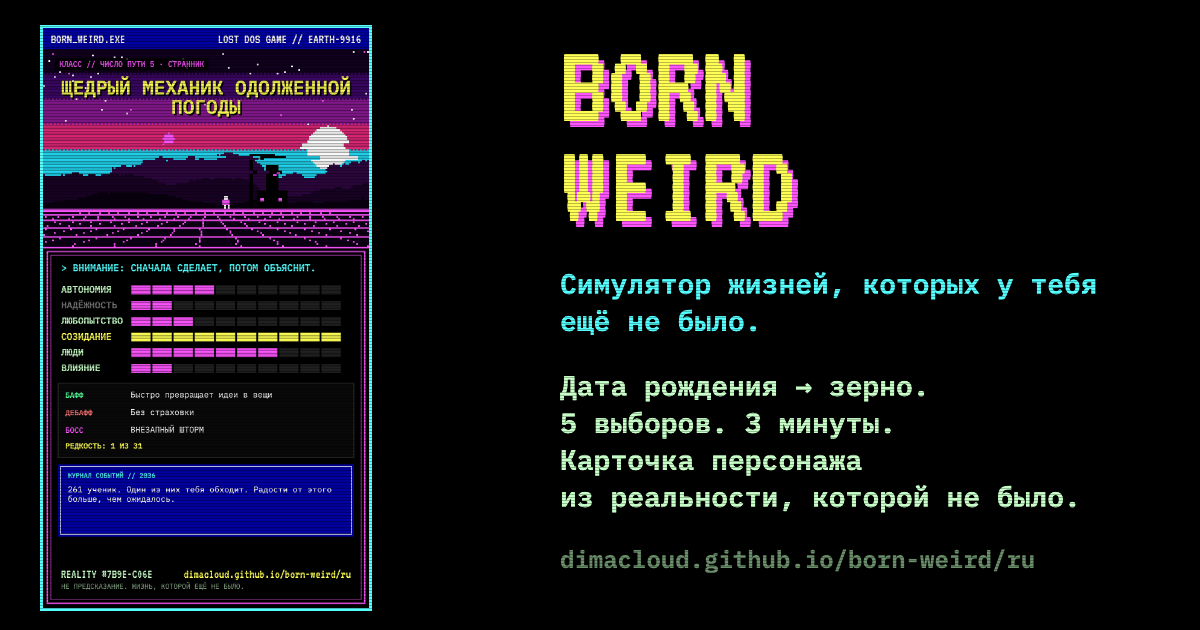
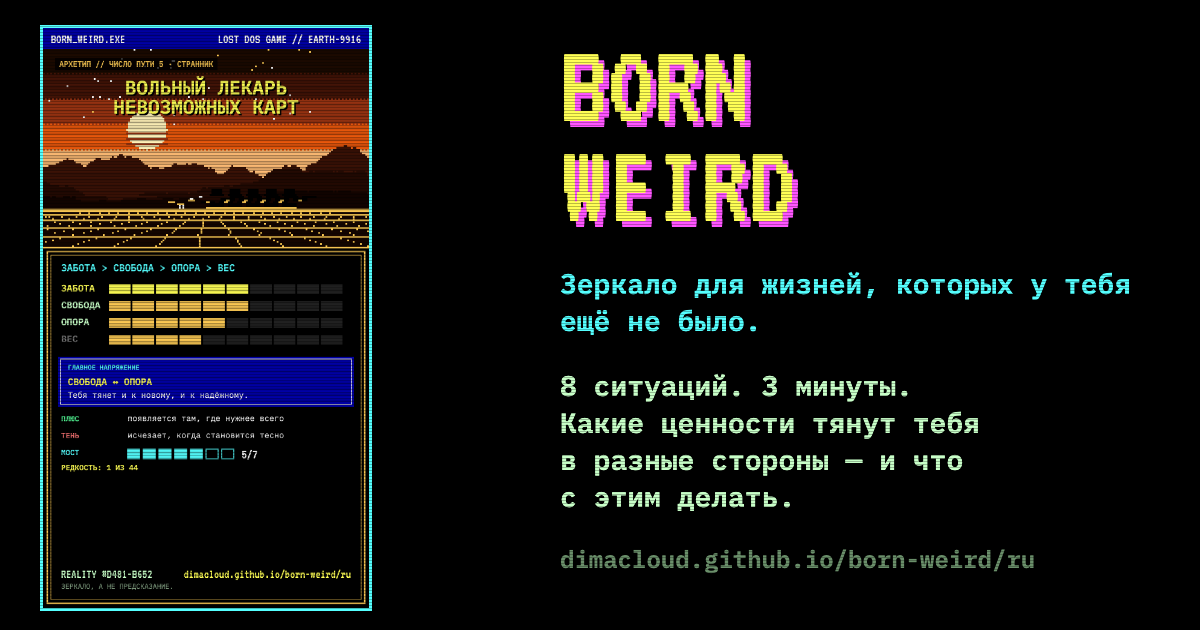
v0.4: consistent tension logic (clear = strict winner, cost = blind spot, mixed), privacy and analytics fixes from QA

diff --git a/product/site/engine.js b/product/site/engine.js
@@ -73,7 +73,7 @@
         NOW: [
           ['A free evening, everything already paid for. Where to?', 'Somewhere you have never been — it might be boring', 'A familiar ritual with trusted people — nothing new', 'A closed meetup with people who decide your growth — you have to be "on"', 'Helping a friend move house — your back will thank you later. Much later'],
           ['You are offered a new project. Your workload will grow.', 'I take it if I can do it my way, no approvals', 'I decline: what exists must keep running smoothly', 'I take it and ask for a title — otherwise why bother', 'I take it if it helps the team, even if not me'],
-          ['You find a wallet on the street with cash and a business card.', 'I return it in person — I want to know who this is', 'I hand it to the police, by the book', 'I return it — and casually make a useful contact', 'I return it and ask for nothing: let them have a good day'],
+          ['Someone gives you a sum of money with one condition: spend it within a week.', 'A sudden trip, wherever the cheapest ticket goes', 'Pay off debts and top up the safety cushion', 'A course or a tool that speeds up my growth', 'A feast for people who are having a tough time'],
           ['You can take any course for free. Three months.', 'Something totally unlike my life: blacksmithing, Japanese, improv', 'Personal finance — to sleep better', 'Negotiation and leadership — to grow faster', 'First aid or psychology — to be more useful to my people'],
           ['A friend asks for an honest opinion on their business idea. It is weak.', 'I suggest flipping it completely — let\'s invent a stranger one', 'I gently suggest not quitting their stable job', 'I say it straight: this won\'t win — and show how to win', 'I first ask what they actually need — the idea is secondary'],
           ['You get one whole free day that nobody knows about.', 'Leave town in a random direction, no plan', 'Finally sort out the things that have been hanging for months', 'Quietly push my own project while nobody distracts me', 'Spend it with someone who is having a hard time'],
@@ -108,7 +108,7 @@
           ['You, 40 years older, send yourself one piece of advice on a sticky note.', '"Go further than seems reasonable."', '"Back it up."', '"Ask for more."', '"Call them. Today."'],
           ['In 40 years someone makes a short film about you. Its title:', '"The One Who Always Left in Time"', '"The One You Could Count On"', '"The One Who Changed the Rules"', '"The One Who Left No One Behind"'],
           ['At the end you can keep one object. Which?', 'An old one-way ticket', 'The key to the house where it all began', 'An award nobody expected you to win', 'A stack of letters that say "thank you"'],
-          ['You are asked what you regret least.', 'That life did not follow someone else\'s script', 'That everything important was safe', 'That the impossible thing got done', 'That there were always people around'],
+          ['In 40 years you leave one line of advice on your grandchildren\'s fridge.', '"Don\'t live by someone else\'s plan."', '"Always keep a spare key."', '"Take more than you are offered."', '"Call each other more often."'],
         ],
       },
       reactions: {
@@ -132,13 +132,18 @@
           quest: '7 days: every day, one small "new" inside safe limits (a new route, dish, conversation) — and one action that strengthens your foundation. On day 7, write down which gave you more energy.' },
         E: { short: 'WEIGHT ↔ CARE', text: 'Both achieving and caring matter to you. It gets hardest when success means leaving someone behind: missed evenings, tough calls. That is not weakness — two real values are pulling in different directions.',
           quest: '7 days: every morning pick one thing for your own growth and one for a specific person. In the evening, note which of the two stayed undone.' },
-        clear: {
-          FREEDOM: { short: 'clear priority: FREEDOM (cost: ANCHOR)', text: 'Freedom wins almost without a fight. The price of that clarity is the anchor: plans, savings and predictability can quietly sag.', quest: '7 days: pick one area where you lack an anchor (money, sleep, order) and do one boring 10-minute action in it every day.' },
-          ANCHOR: { short: 'clear priority: ANCHOR (cost: FREEDOM)', text: 'The anchor wins almost without a fight. The price of that clarity is freedom: new things may pass you by because "it\'s fine as it is".', quest: '7 days: one small "first time" every day — a route, a dish, a person, a question. Write down what felt most alive.' },
-          WEIGHT: { short: 'clear priority: WEIGHT (cost: CARE)', text: 'Weight wins almost without a fight. The price of that clarity is care: people near you may start to feel like resources.', quest: '7 days: every day do one thing for one person with zero expected return. Write down how they reacted.' },
-          CARE: { short: 'clear priority: CARE (cost: WEIGHT)', text: 'Care wins almost without a fight. The price of that clarity is weight: your own goals may wait in line forever.', quest: '7 days: 30 minutes a day on your own goal — before answering anyone else\'s requests.' },
-        },
       },
+      clearShort: (top, low) => 'clear priority: ' + top + ' (cost: ' + low + ')',
+      clearText: (top, low, cost) => top + ' wins most of the time, almost without a fight. The price of that clarity is ' + low + ': ' + cost + '.',
+      cost: { FREEDOM: 'new things may pass you by because "it\'s fine as it is"', ANCHOR: 'plans, savings and predictability can quietly sag', WEIGHT: 'your own goals and voice may wait in line forever', CARE: 'people near you may start to feel like resources' },
+      questLow: {
+        FREEDOM: '7 days: one small "first time" every day — a route, a dish, a person, a question. Write down what felt most alive.',
+        ANCHOR: '7 days: pick one area where you lack an anchor (money, sleep, order) and do one boring 10-minute action in it every day.',
+        WEIGHT: '7 days: 30 minutes a day on your own goal — before answering anyone else\'s requests.',
+        CARE: '7 days: every day do one thing for one person with zero expected return. Write down how they reacted.',
+      },
+      mixed: { short: 'no clear leader', text: 'No single value wins: the votes split almost evenly. That can be flexibility — or decision fatigue. Look at your "definitely not" picks: they say more about you than the "I\'d choose" ones.',
+        quest: '7 days: every evening write down one decision of the day and which value won it. On day 7, count who won most often.' },
       blind: {
         FREEDOM: 'Blind spot — FREEDOM. It can feel like there is no choice when there is one. Where are you living by someone else\'s script?',
         ANCHOR: 'Blind spot — ANCHOR. Without a plan B every storm becomes personal. What breaks first if tomorrow goes wrong?',
@@ -209,26 +214,26 @@
       bridge: { label: 'МОСТ', meaning: 'насколько ты-через-10-лет ощущается как ты' },
       situations: {
         NOW: [
-          ['Свободный вечер, всё уже оплачено. Куда?', 'Туда, где ещё ни разу не бывало, — может оказаться скучно', 'Привычный ритуал с проверенными людьми — ничего нового', 'Закрытая встреча с теми, от кого зависит рост, — придётся быть «в форме»', 'Помочь другу с переездом — спина скажет спасибо не сразу'],
-          ['Тебе предлагают новый проект. Нагрузка вырастет.', 'Беру, если можно сделать по-своему, без согласований', 'Отказываюсь: текущее должно работать без сбоев', 'Беру и прошу должность с названием — иначе зачем', 'Беру, если это поможет команде, пусть и не мне'],
-          ['На улице лежит кошелёк с деньгами и визиткой.', 'Верну лично — интересно, кто этот человек', 'Сдам в полицию, всё по правилам', 'Верну — и между делом заведу полезное знакомство', 'Верну и ничего не попрошу — пусть у человека будет хороший день'],
+          ['Свободный вечер, всё уже оплачено. Куда?', 'Туда, где ещё не доводилось бывать, — вдруг окажется скучно', 'Привычный ритуал с проверенными людьми — ничего нового', 'Закрытая встреча с теми, от кого зависит рост, — придётся быть «в форме»', 'Помочь другу с переездом — спина спасибо не скажет'],
+          ['Тебе предлагают новый проект. Нагрузка вырастет.', 'Беру, если можно сделать по-своему, без согласований', 'Отказываюсь: текущее должно работать без сбоев', 'Беру — но с громкой должностью, иначе зачем', 'Беру, если это поможет команде, пусть и не мне'],
+          ['Тебе дарят сумму денег с одним условием: потратить её за неделю.', 'Внезапная поездка — куда угодно, куда дешевле билет', 'Закрыть долги и пополнить подушку', 'Курс или инструмент, который ускорит мой рост', 'Праздник для тех, кому сейчас туго'],
           ['Можно бесплатно пройти любой курс. Три месяца.', 'Что-то совсем не из моей жизни: кузнечное дело, японский, импровизация', 'Финансовую грамотность — чтобы спать спокойнее', 'Переговоры и лидерство — чтобы расти быстрее', 'Первую помощь или психологию — чтобы быть опорой для своих'],
           ['Друг просит честно оценить его бизнес-идею. Идея слабая.', 'Предлагаю перевернуть её целиком — придумаем что-то страннее', 'Мягко советую не бросать стабильную работу', 'Говорю прямо: так не выиграть — и показываю, как надо', 'Сначала спрашиваю, что ему на самом деле нужно: идея вторична'],
           ['У тебя появляется целый свободный день, о котором никто не знает.', 'Уехать куда глаза глядят, без плана', 'Наконец разобрать дела, которые висят месяцами', 'Тихо продвинуть свой проект, пока никто не отвлекает', 'Провести его с тем, кому сейчас тяжело'],
         ],
         D7: [
           ['Через неделю можно переехать в другой город на полгода. Всё оплачено. Решать сейчас.', 'Еду: новый город — новая версия меня', 'Остаюсь: здесь всё, что меня держит', 'Еду — но только если это даст рост и связи', 'Сначала спрашиваю своих — им с этим жить'],
-          ['Неделю подряд приходят анонимные записки с одним словом: «решайся».', 'Делаю то, что давно откладываю, — неважно, кто пишет', 'Сначала выясняю, кто отправитель', 'Берусь за самое амбициозное из своего списка', 'Наконец говорю важное человеку, которому давно стоило это сказать'],
-          ['Команде нужен человек, который неделю будет публичным лицом проекта.', 'Соглашаюсь, но говорю своими словами, без пресс-релиза', 'Отказываюсь: лучше обеспечу, чтобы всё работало за кулисами', 'Соглашаюсь — это шанс, чтобы меня заметили', 'Предлагаю того, кому это нужнее для роста'],
-          ['Друзья берут на слабо: неделя без телефона. Приз — ужин за их счёт.', 'Да — интересно, кто я без ленты', 'Нет — слишком многое держится на том, что я на связи', 'Да — и выиграю, это вопрос характера', 'Да, если делаем это все вместе'],
+          ['Неделю подряд приходят анонимные записки с одним словом: «решайся».', 'Делаю то, что давно откладываю, — неважно, кто пишет', 'Сначала выясняю, кто отправитель', 'Берусь за самое амбициозное из своего списка', 'Наконец говорю важное тому, кому давно пора было это сказать'],
+          ['Команде нужен человек, который неделю будет публичным лицом проекта.', 'Соглашаюсь, но говорю своими словами, без пресс-релиза', 'Отказываюсь: лучше прослежу, чтобы за кулисами всё работало', 'Соглашаюсь — это шанс, что меня заметят', 'Предлагаю того, кому это нужнее для роста'],
+          ['Друзья берут на слабо: неделя без телефона. Приз — ужин за их счёт.', 'Да — интересно, кто я без ленты', 'Нет — слишком многое держится на том, что я на связи', 'Да — и выиграю, это вопрос характера', 'Да — но только если все вместе'],
           ['Сосед затевает ремонт в подъезде и ищет добровольцев на выходные.', 'Иду, если можно расписать стену чем-то странным', 'Скидываюсь деньгами, но выходные — мои', 'Беру организацию на себя — так выйдет лучше', 'Прихожу с инструментами, просто потому что надо'],
-          ['Можно на неделю поменять свою работу на совсем другую.', 'На самую странную: смотритель маяка, сыровар, каскадёр', 'На похожую — чтобы не потерять навык', 'Туда, где больше всего платят и решают', 'Туда, где помогают напрямую: врач, учитель, спасатель'],
+          ['Можно на неделю поменять свою работу на совсем другую.', 'На самую странную: смотритель маяка, сыровар, каскадёр', 'На похожую — чтобы не потерять навык', 'Туда, где больше всего платят и где всё решается', 'Туда, где помогают напрямую: врач, учитель, спасатель'],
         ],
         Y1: [
-          ['Через год тебе предлагают выбор:', 'Годовой бюджет и полная свобода на свой странный эксперимент', 'Бессрочный контракт с понятной зарплатой и графиком', 'Роль, где я — лицо проекта и решаю я', 'Работа, которая ощутимо помогает людям, пусть и скромнее'],
-          ['Тебе достаются деньги, на которые можно не работать три года. Первым делом:', 'Строю то, о чём рассказываю на каждой вечеринке', 'Инвестирую и продолжаю работать. Тихо', 'Запускаю бизнес, чтобы через три года денег стало в десять раз больше', 'Собираю своих и закрываю их проблемы'],
+          ['Через год тебе предлагают выбор:', 'Годовой бюджет и полная свобода на свой странный эксперимент', 'Бессрочный контракт с понятной зарплатой и графиком', 'Роль, где я — лицо проекта и последнее слово за мной', 'Работа, которая ощутимо помогает людям, пусть и скромнее'],
+          ['Тебе достаётся сумма, с которой можно три года не работать. Первым делом:', 'Строю то, о чём рассказываю на каждой вечеринке', 'Инвестирую и продолжаю работать. Тихо', 'Запускаю бизнес, чтобы через три года их стало вдесятеро больше', 'Решаю проблемы близких — пусть и за свой счёт'],
           ['За год можно по-настоящему освоить одно. Что?', 'Новый язык — и уехать его практиковать', 'Порядок в деньгах и здоровье', 'Навык, за который платят втрое больше', 'Умение поддержать человека в самый тяжёлый момент'],
-          ['Старый друг зовёт в общее дело. Хаотичный, но горит.', 'Иду — хаос мне по душе', 'Иду, только с договором и запасным планом', 'Иду, если решения будут за мной', 'Иду, потому что ему нужна опора'],
+          ['Старый друг зовёт в общее дело: хаоса много, но глаза горят.', 'Иду — хаос мне по душе', 'Иду, только с договором и запасным планом', 'Иду, если решения будут за мной', 'Иду, потому что ему нужна опора'],
           ['Через год можно жить в любом из четырёх мест:', 'Город, где меня никто не знает', 'Свой дом там же, где сейчас', 'Столица, где всё решается', 'Рядом с теми, кто без меня не справится'],
           ['Тебе предлагают вести публичный блог целый год. Тема — любая.', 'Эксперименты над собственной жизнью', 'Никакого блога: личное остаётся личным', 'Как добиваться своего — чтобы стать экспертом', 'Люди, которых никто не замечает'],
         ],
@@ -236,17 +241,17 @@
           ['Через 10 лет ты на развилке. Какую жизнь выбираешь?', 'Начать заново в другой стране и профессии', 'Укрепить то, что уже построено', 'Выйти на уровень, где от меня зависят сотни людей', 'Отдавать большую часть времени тем, кому нужна помощь'],
           ['Тем, что ты создаёшь, внезапно пользуется миллион человек — совсем не так, как задумано.', 'Закрываю и начинаю что-то поменьше и страннее', 'Строю защиту, чтобы ничего не сломалось', 'Беру штурвал и масштабирую', 'Ищу тех, кому это правда помогает, и делаю для них'],
           ['Тебя начинают узнавать по одной вещи — и совсем не по той, по которой хотелось.', 'Тихо начинаю заново в другом месте', 'Принимаю: репутация — это опора', 'Делаю из этого бренд', 'Учу других делать это лучше меня'],
-          ['Предложение: всё удвоить — деньги, влияние, нагрузку. Ответ до полуночи.', 'Нет — свобода дороже', 'Нет — не буду раскачивать то, что работает', 'Да', 'Спрашиваю тех, кого люблю, — решать им'],
+          ['Предложение: всё удвоить — деньги, влияние, нагрузку. Ответ до полуночи.', 'Нет — свобода дороже', 'Нет — не буду раскачивать то, что работает', 'Да. Полночь можно не ждать', 'Спрашиваю тех, кого люблю, — решать им'],
           ['Через 10 лет тебе дают оплачиваемый год «творческого отпуска».', 'Год путешествий без маршрута', 'Год для здоровья, дома и порядка', 'Год на книгу, которую будут цитировать', 'Год волонтёрства там, где тяжело'],
           ['Можно передать одно своё умение сотне незнакомых людей.', 'Не бояться начинать с нуля', 'Не терять голову в кризис', 'Добиваться своего', 'Слушать'],
         ],
         Y40: [
-          ['Ребёнок спрашивает: «А что ты на самом деле делаешь всю жизнь?» У тебя одно предложение.', '«Ищу край карты».', '«Держу оборону, пока всё вокруг меняется».', '«Двигаю фигуры, которые больше никто не может сдвинуть».', '«Строю место, где людям есть куда прийти».'],
-          ['Где-то можно навсегда высечь одну фразу. Где и какую?', 'На скамейке на краю города: «Не обязательно».', 'На мосту: «Выдержал».', 'На башне: «Сдвинуто».', 'Над дверью кухни: «Есть будут все».'],
+          ['Ребёнок спрашивает: «А чем ты на самом деле занимаешься всю жизнь?» У тебя одно предложение.', '«Ищу край карты».', '«Держу оборону, пока всё вокруг меняется».', '«Сдвигаю то, что больше никому не сдвинуть».', '«Строю место, где людям есть куда прийти».'],
+          ['Где-то можно навсегда высечь одну фразу. Где и какую?', 'На скамейке на краю города: «Не обязательно».', 'На мосту: «Выдержит».', 'На башне: «Сдвинуто».', 'Над дверью кухни: «Есть будут все».'],
           ['Ты, только на 40 лет старше, присылаешь себе один совет на стикере.', '«Иди дальше, чем кажется разумным».', '«Сделай резервную копию».', '«Проси больше».', '«Позвони им. Сегодня».'],
-          ['Через 40 лет о тебе снимают короткий фильм. Как он называется?', '«Тот, кто всегда уходил вовремя»', '«Тот, на кого можно было положиться»', '«Тот, кто менял правила»', '«Тот, кто никого не бросил»'],
-          ['В самом конце можно сохранить один предмет. Какой?', 'Старый билет в один конец', 'Ключ от дома, где всё началось', 'Награду, которой от тебя никто не ждал', 'Пачку писем со словом «спасибо»'],
-          ['Тебя спрашивают, о чём ты жалеешь меньше всего.', 'О том, что жизнь не прошла по чужому сценарию', 'О том, что всё важное было в безопасности', 'О том, что невозможное всё-таки получилось', 'О том, что рядом всегда были люди'],
+          ['Через 40 лет о тебе снимают короткий фильм. Как он называется?', '«Человек, который вовремя уходил»', '«Человек, на которого можно было положиться»', '«Человек, который менял правила»', '«Человек, который никого не бросил»'],
+          ['В самом конце можно сохранить один предмет. Какой?', 'Старый билет в один конец', 'Ключ от дома, где всё началось', 'Награду, которой от меня никто не ждал', 'Пачку писем со словом «спасибо»'],
+          ['Через 40 лет ты оставляешь внукам один совет на холодильнике.', '«Не живите по чужому плану».', '«Всегда держите запасной ключ».', '«Берите больше, чем предлагают».', '«Звоните друг другу чаще».'],
         ],
       },
       reactions: {
@@ -266,17 +271,22 @@
         'CARE|ANCHOR': { name: 'СТРАЖ', plus: 'никого не бросает', shadow: 'защищает даже от того, что помогло бы вырасти' },
       },
       tension: {
-        O: { short: 'СВОБОДА ↔ ОПОРА', text: 'Тебя тянет и к новому, и к надёжному. Решения даются тяжело, когда свобода стоит стабильности: переезд, смена работы, большой риск. Это не нерешительность — две настоящие ценности тянут в разные стороны.',
+        O: { short: 'СВОБОДА ↔ ОПОРА', text: 'Тебя тянет и к новому, и к надёжному. Решения даются тяжело, когда за свободу платишь стабильностью: переезд, смена работы, большой риск. Это не нерешительность — две настоящие ценности тянут в разные стороны.',
           quest: '7 дней: каждый день одно маленькое «новое» внутри безопасных рамок (маршрут, блюдо, разговор) — и одно действие, которое укрепляет опору. На седьмой день запиши, что дало больше энергии.' },
         E: { short: 'ВЕС ↔ ЗАБОТА', text: 'Тебе важно и добиваться, и заботиться. Тяжелее всего, когда успех требует кого-то оставить позади: пропущенные вечера, жёсткие решения. Это не слабость — две настоящие ценности тянут в разные стороны.',
           quest: '7 дней: каждое утро выбирай одно дело для своего роста и одно — для конкретного человека. Вечером отмечай, какое из двух осталось несделанным.' },
-        clear: {
-          FREEDOM: { short: 'ясный приоритет — СВОБОДА (цена — ОПОРА)', text: 'Свобода побеждает почти без боя. Цена этой ясности — опора: планы, подушка и предсказуемость могут незаметно проседать.', quest: '7 дней: выбери одну область, где не хватает опоры (деньги, сон, порядок), и каждый день делай в ней одно скучное действие на 10 минут.' },
-          ANCHOR: { short: 'ясный приоритет — ОПОРА (цена — СВОБОДА)', text: 'Опора побеждает почти без боя. Цена этой ясности — свобода: новое может проходить мимо, потому что «и так нормально».', quest: '7 дней: каждый день одно маленькое «впервые» — путь, блюдо, человек, вопрос. Записывай, что было самым живым.' },
-          WEIGHT: { short: 'ясный приоритет — ВЕС (цена — ЗАБОТА)', text: 'Вес побеждает почти без боя. Цена этой ясности — забота: людям рядом может начать казаться, что они ресурс.', quest: '7 дней: каждый день делай что-то для одного человека без расчёта на пользу. Записывай, как он реагирует.' },
-          CARE: { short: 'ясный приоритет — ЗАБОТА (цена — ВЕС)', text: 'Забота побеждает почти без боя. Цена этой ясности — вес: свои цели могут вечно ждать очереди.', quest: '7 дней: 30 минут в день на свою цель — до того, как отвечать на чужие просьбы.' },
-        },
       },
+      clearShort: (top, low) => 'ясный приоритет — ' + top + ' (цена — ' + low + ')',
+      clearText: (top, low, cost) => 'Чаще всего побеждает ' + top + ' — и почти без боя. Цена этой ясности — ' + low + ': ' + cost + '.',
+      cost: { FREEDOM: 'новое может проходить мимо, потому что «и так нормально»', ANCHOR: 'планы, подушка и предсказуемость могут незаметно проседать', WEIGHT: 'свои цели и свой голос могут вечно ждать очереди', CARE: 'людям рядом может начать казаться, что они ресурс' },
+      questLow: {
+        FREEDOM: '7 дней: каждый день одно маленькое «впервые» — путь, блюдо, человек, вопрос. Записывай, что было самым живым.',
+        ANCHOR: '7 дней: выбери одну область, где не хватает опоры (деньги, сон, порядок), и каждый день делай в ней одно скучное действие на 10 минут.',
+        WEIGHT: '7 дней: 30 минут в день на свою цель — до того, как отвечать на чужие просьбы.',
+        CARE: '7 дней: каждый день делай что-то для одного человека без расчёта на пользу. Записывай, как он реагирует.',
+      },
+      mixed: { short: 'без явного лидера', text: 'Ни одна ценность не побеждает: голоса делятся почти поровну. Это может быть гибкость — а может быть усталость от выбора. Посмотри на свои «точно нет»: они говорят о тебе больше, чем «выберу».',
+        quest: '7 дней: каждый вечер записывай одно решение дня и какая ценность в нём победила. На седьмой день посчитай, кто выигрывал чаще.' },
       blind: {
         FREEDOM: 'Слепая зона — СВОБОДА. Может казаться, что выбора нет, хотя он есть. Где ты живёшь по чужому сценарию?',
         ANCHOR: 'Слепая зона — ОПОРА. Без запасного плана любая буря становится личной. Что сломается первым, если завтра всё пойдёт не так?',
@@ -284,9 +294,9 @@
         CARE: 'Слепая зона — ЗАБОТА. До цели можно дойти в одиночестве. Кто заметит, если тебе понадобится помощь?',
       },
       bridgeText: [
-        'Ты-через-10-лет — пока незнакомец. Это очень частое состояние. Попробуй разговор с собой из будущего — кнопка ниже.',
+        'Ты-через-10-лет — пока незнакомец. Так бывает очень часто. Попробуй разговор с собой из будущего — кнопка ниже.',
         'Ты-через-10-лет — как дальний родственник: лицо знакомое, но видитесь вы редко. Одно письмо себе через 10 лет заметно сближает.',
-        'Ты сейчас и ты-через-10-лет — почти одно лицо. В исследованиях Хершфилда у таких людей больше сбережений и терпения к долгой игре. Дай этой версии себя одно обещание на этой неделе.',
+        'Ты сейчас и ты-через-10-лет — почти одно лицо. В исследованиях Хершфилда у таких людей больше сбережений и терпения в долгих делах. Дай этой версии себя одно обещание на этой неделе.',
       ],
       bridgeQ: { prompt: 'Насколько ты-через-10-лет ощущается как ты?', low: '1 — два разных человека', high: '7 — один и тот же человек' },
       lifePaths: [null,
@@ -318,7 +328,7 @@
         'недоделанные проекты по закону считаются домашними питомцами', 'почта доставляет письма всем версиям тебя, которые не случились',
       ],
       prompts: {
-        plan: r => 'Я прохожу BORN WEIRD — игру-зеркало ценностей (это игра, не тест и не предсказание). Мой порядок ценностей: ' + r.orderText + '. Главное напряжение: ' + r.tension.short + '. Квест на 7 дней: ' + r.tension.quest +
+        plan: r => 'Я прохожу BORN WEIRD — игру-зеркало ценностей (это игра, не тест и не предсказание). Мой порядок ценностей: ' + r.orderText + '. Главное напряжение: ' + r.tension.short + '. Квест: ' + r.tension.quest +
           ' Преврати его в план на 7 дней: одно конкретное действие на 15–30 минут в день и понятный критерий «сделано». Сначала задай мне один вопрос о моей реальной ситуации, потом дай план. Отвечай по-русски.',
         future: r => 'Ролевая игра: ты — это я через 10 лет. Сейчас моя связь с будущим собой — ' + r.bridge + ' из 7. Мои ценности: ' + r.orderText + '; главное напряжение: ' + r.tension.short +
           '. Поговори с сегодняшней версией меня от лица меня-будущего: коротко, тепло, честно, без предсказаний — это игра. Начни с одного вопроса ко мне. Отвечай по-русски.',
@@ -340,7 +350,7 @@
   CONTENT.ru.seed.ai[3] = 'Начни с вопроса: **«Где в этом результате есть узнавание — а где совсем нет?»**';
 
   // Archetype × tension rarity = share of random play; generated by operations/rarity.mjs.
-  const RARITY = {"ANCHOR|CARE|E":0.02211,"ANCHOR|CARE|O":0.06194,"ANCHOR|CARE|clear":0.04181,"ANCHOR|WEIGHT|E":0.02304,"ANCHOR|WEIGHT|O":0.06132,"ANCHOR|WEIGHT|clear":0.04052,"CARE|ANCHOR|E":0.06162,"CARE|ANCHOR|O":0.02266,"CARE|ANCHOR|clear":0.04109,"CARE|FREEDOM|E":0.06152,"CARE|FREEDOM|O":0.02293,"CARE|FREEDOM|clear":0.04084,"FREEDOM|CARE|E":0.02234,"FREEDOM|CARE|O":0.06223,"FREEDOM|CARE|clear":0.04036,"FREEDOM|WEIGHT|E":0.02221,"FREEDOM|WEIGHT|O":0.06184,"FREEDOM|WEIGHT|clear":0.04026,"WEIGHT|ANCHOR|E":0.06223,"WEIGHT|ANCHOR|O":0.02202,"WEIGHT|ANCHOR|clear":0.04108,"WEIGHT|FREEDOM|E":0.06048,"WEIGHT|FREEDOM|O":0.02234,"WEIGHT|FREEDOM|clear":0.04118};
+  const RARITY = {"ANCHOR|CARE|E":0.02235,"ANCHOR|CARE|O":0.06191,"ANCHOR|CARE|clear":0.028,"ANCHOR|CARE|mixed":0.01302,"ANCHOR|WEIGHT|E":0.02241,"ANCHOR|WEIGHT|O":0.06168,"ANCHOR|WEIGHT|clear":0.02782,"ANCHOR|WEIGHT|mixed":0.01307,"CARE|ANCHOR|E":0.06176,"CARE|ANCHOR|O":0.02288,"CARE|ANCHOR|clear":0.02811,"CARE|ANCHOR|mixed":0.01299,"CARE|FREEDOM|E":0.06136,"CARE|FREEDOM|O":0.02283,"CARE|FREEDOM|clear":0.02737,"CARE|FREEDOM|mixed":0.01283,"FREEDOM|CARE|E":0.0229,"FREEDOM|CARE|O":0.06042,"FREEDOM|CARE|clear":0.02758,"FREEDOM|CARE|mixed":0.01276,"FREEDOM|WEIGHT|E":0.02202,"FREEDOM|WEIGHT|O":0.06103,"FREEDOM|WEIGHT|clear":0.02825,"FREEDOM|WEIGHT|mixed":0.01332,"WEIGHT|ANCHOR|E":0.0615,"WEIGHT|ANCHOR|O":0.02227,"WEIGHT|ANCHOR|clear":0.02835,"WEIGHT|ANCHOR|mixed":0.01297,"WEIGHT|FREEDOM|E":0.06189,"WEIGHT|FREEDOM|O":0.02267,"WEIGHT|FREEDOM|clear":0.02853,"WEIGHT|FREEDOM|mixed":0.01312};
 
   const normLang = lang => (LANGS.indexOf(lang) >= 0 ? lang : 'en');
   const pack = lang => CONTENT[normLang(lang)];
@@ -481,15 +491,25 @@
     const r = rngFor(run.seed, 'tie');
     const jitter = POLES.map(() => r() * 0.001);
     const rank = [0, 1, 2, 3].sort((a, b) => (net[b] - net[a]) || (worst[a] - worst[b]) || (jitter[b] - jitter[a]));
-    // Tension: an axis where BOTH poles were chosen as "I'd choose" at least twice; otherwise a clear priority.
+    // Tension: an axis where BOTH poles were chosen as "I'd choose" at least twice.
+    // Otherwise a clear priority — only if one pole was chosen strictly more often than every other — else "mixed".
     const pull = { O: Math.min(best[0], best[1]), E: Math.min(best[2], best[3]) };
     const top = POLES[rank[0]];
+    const maxBest = Math.max(...best), leaders = best.filter(b => b === maxBest).length;
     let tension;
     if (Math.max(pull.O, pull.E) >= 2) tension = pull.O === pull.E ? AXIS[top] : (pull.O > pull.E ? 'O' : 'E');
-    else tension = 'clear:' + top;
+    else if (leaders === 1 && best[rank[0]] === maxBest) tension = 'clear';
+    else tension = 'mixed';
     const otherAxis = AXIS[top] === 'O' ? [2, 3] : [0, 1];
-    const second = POLES[otherAxis.sort((a, b) => rank.indexOf(a) - rank.indexOf(b))[0]];
-    return { best, worst, net, rank: rank.map(i => POLES[i]), top, second, low: POLES[rank[3]], tension };
+    const second = POLES[otherAxis.slice().sort((a, b) => rank.indexOf(a) - rank.indexOf(b))[0]];
+    const low = POLES[rank[3]];
+    // Blind spot = the weakest pole, but never a pole of the tension axis (that axis is about pull, not neglect).
+    let blind = low;
+    if ((tension === 'O' || tension === 'E') && AXIS[low] === tension) {
+      const other = tension === 'O' ? [2, 3] : [0, 1];
+      blind = POLES[other.slice().sort((a, b) => rank.indexOf(b) - rank.indexOf(a))[0]];
+    }
+    return { best, worst, net, rank: rank.map(i => POLES[i]), top, second, low, blind, tension };
   }
 
   /** Final result. Shared outputs carry only: choices (best/worst poles), bridge, life path — no birth facts. */
@@ -503,13 +523,17 @@
     const hex = () => Math.floor(r() * 0x10000).toString(16).toUpperCase().padStart(4, '0');
     const id = hex() + '-' + hex();
     const worldFact = P.worldFacts[pickIdx(rngFor(run.seed, 'world'), P.worldFacts.length)];
-    const tension = sc.tension.startsWith('clear:') ? Object.assign({ kind: 'clear', pole: sc.top }, P.tension.clear[sc.top]) : Object.assign({ kind: 'axis', axis: sc.tension }, P.tension[sc.tension]);
+    const L = p => P.poles[p].label;
+    let tension;
+    if (sc.tension === 'clear') tension = { kind: 'clear', pole: sc.top, costPole: sc.blind, short: P.clearShort(L(sc.top), L(sc.blind)), text: P.clearText(L(sc.top), L(sc.blind), P.cost[sc.blind]), quest: P.questLow[sc.blind] };
+    else if (sc.tension === 'mixed') tension = Object.assign({ kind: 'mixed' }, P.mixed);
+    else tension = Object.assign({ kind: 'axis', axis: sc.tension }, P.tension[sc.tension]);
     const bars = sc.net.map(n => Math.max(0, Math.min(10, Math.round((n + 8) / 16 * 10))));
     const choices = run.answers.map(([b, w], k) => {
       const s = P.situations[PLAN[k]][run.sits[k]];
       return { horizon: P.horizonLabels[PLAN[k]], prompt: s[0], best: s[1 + b], worst: s[1 + w], bestPole: POLES[b] };
     });
-    const tKey = sc.top + '|' + sc.second + '|' + (tension.kind === 'clear' ? 'clear' : tension.axis);
+    const tKey = sc.top + '|' + sc.second + '|' + (tension.kind === 'axis' ? tension.axis : tension.kind);
     const rare = RARITY[tKey];
     const res = {
       id, version: VERSION, lang: run.lang,
@@ -520,7 +544,7 @@
       meanings: Object.fromEntries(POLES.map(p => [p, P.poles[p].meaning])),
       profile: POLES.map((p, i) => ({ pole: p, label: P.poles[p].label, net: sc.net[i], best: sc.best[i], worst: sc.worst[i], bar: bars[i] })),
       orderText: sc.rank.map(p => P.poles[p].label).join(P.orderSep),
-      tension, blind: P.blind[sc.low],
+      tension, blind: P.blind[sc.blind], blindPole: sc.blind,
       bridge: run.bridge, bridgeLabel: P.bridge.label, bridgeText: P.bridgeText[run.bridge <= 2 ? 0 : run.bridge <= 5 ? 1 : 2],
       lifePath: run.lifePath, lp: P.lifePaths[run.lifePath],
       choices, earth: 'EARTH-' + String(1000 + (run.seed % 9000)), worldFact,
@@ -562,6 +586,7 @@
     const lifePath = take(4), seed = take(53), version = take(3);
     if (version !== KEY_VERSION || n !== 0n || lifePath < 1 || lifePath > 9 || bridge < 1 || bridge > 7) return null;
     if (sits.some(s => s >= POOL_SIZE) || answers.some(([b, w]) => b === w)) return null;
+    if (sits.some((s, k) => sits.some((s2, k2) => k2 < k && PLAN[k2] === PLAN[k] && s2 === s))) return null; // no repeated situation in a horizon
     const run = makeRun(seed, lifePath, lang, null, []);
     run.sits = sits; run.answers = answers; run.bridge = bridge;
     if (checksum(keyFields(run)) !== check) return null;

diff --git a/product/site/index.html b/product/site/index.html
@@ -327,7 +327,7 @@
     },
     ru: {
       tagline: 'Зеркало для жизней, которых у тебя ещё не было.',
-      subline: '3 минуты · 8 ситуаций · узнай, какие ценности тянут тебя в разные стороны, где слепая зона и насколько близок тебе ты-через-10-лет. В конце — квест на 7 дней и пиксельная карточка персонажа.',
+      subline: '3 минуты · 8 ситуаций · узнай, какие ценности тянут тебя в разные стороны, где слепая зона и как далеко тебе до себя-через-10-лет. В конце — квест на 7 дней и пиксельная карточка персонажа.',
       dobLabel: 'ВВЕДИ ДАТУ РОЖДЕНИЯ:', start: 'НАЧАТЬ',
       privacy: 'Дата рождения не покидает это устройство и нигде не хранится. Она даёт реальные факты о твоём времени (их видишь только ты) и одно открыто символическое число. Это не предсказание.',
       birthBar: 'ТВОЁ ВРЕМЯ',
@@ -341,7 +341,7 @@
       symbol: d => 'Дата ' + d.dateShown + ' → ' + d.lifePathSteps.join(' → ') + '\nЧисло пути ' + d.lifePath + ' — ' + d.lp.name + '\n+ ' + d.lp.plus + '\n− ' + d.lp.shadow + '\n? ' + d.lp.q + '\nЗнак: ' + d.zodiac + ' — просто для красоты.',
       motto: 'Цифры — факты. Архетип — метафора. Выбор — твой.',
       toModel: 'ДАЛЬШЕ: ЧТО МЫ ИЗУЧАЕМ →',
-      modelBar: 'ЧТО МЫ ИЗУЧАЕМ', modelHead: 'Какие ценности тянут тебя в разные стороны — и насколько своим ощущается ты-через-10-лет.',
+      modelBar: 'ЧТО МЫ ИЗУЧАЕМ', modelHead: 'Какие ценности тянут тебя в разные стороны — и насколько ты-через-10-лет ощущается как ты.',
       axisO: 'СВОБОДА ↔ ОПОРА', axisE: 'ВЕС ↔ ЗАБОТА',
       howTo: 'В каждой из 8 ситуаций сначала отметь, что ВЫБЕРЕШЬ, потом — что ТОЧНО НЕТ. Правильных ответов нет: у каждого варианта своя цена.',
       caveat: 'Это зеркало сегодняшних выборов — не тест и не диагноз. По мотивам теории базовых ценностей Шварца и исследований Хершфилда о будущем себе; формулировки наши и не валидированы. 8 ситуаций показывают только порядок твоих ценностей, а не сравнение с другими людьми.',
@@ -453,7 +453,7 @@
     pumping = true; hit(sendQ.shift());
     setTimeout(() => { pumping = false; pump(); }, 400);
   }
-  window.addEventListener('pagehide', () => { let n = 0; while (sendQ.length && n++ < 5) hit(sendQ.shift()); });
+  window.addEventListener('pagehide', () => { let n = 0; while (sendQ.length && n++ < 3) hit(sendQ.shift()); });
 
   // ---------- referral: ?k=KEY or legacy ?from=ID ----------
   const ownIds = () => { try { return JSON.parse(store.get('bw_own') || '[]'); } catch (e) { return []; } };
@@ -636,7 +636,6 @@
       b.addEventListener('click', () => tapOption(k, pos, b));
       box.appendChild(b);
     });
-    track('item_presented_' + (k + 1));
   }
   function tapOption(k, pos, btn) {
     if (!run || run.answers.length !== k || itemIdx !== k) return;
@@ -702,7 +701,7 @@
     result = BW.finish(run);
     rememberOwn(result.id); rememberSeen(result.sitIds);
     track('simulation_completed');
-    track('tension_' + (result.tension.kind === 'clear' ? 'clear' : result.tension.axis));
+    track('tension_' + (result.tension.kind === 'axis' ? result.tension.axis : result.tension.kind));
     if (referredBy) {
       track('referred_simulation_completed');
       if (!store.get('bw_ref_sent_' + referredBy, true)) { store.set('bw_ref_sent_' + referredBy, '1', true); track('ref_' + referredBy); }
@@ -755,7 +754,7 @@
     $('resBlind').textContent = result.blind;
     $('resBridgeHead').textContent = t('bridgeHead')(result.bridge); $('resBridge').textContent = result.bridgeText;
     $('resQuest').textContent = result.tension.quest;
-    $('resStart').textContent = run && run.decoded ? t('start2')(run.decoded.milestone) : '';
+    $('resStart').textContent = ''; // the milestone date stays on the private birth screen: next to the life path it would reveal the birth date
     $('retake').textContent = t('retake')(run && run.decoded ? run.decoded.retakeDate : '');
     renderAI();
     const ol = $('resChoices'); ol.innerHTML = '';

diff --git a/company/DECISIONS.md b/company/DECISIONS.md
@@ -112,3 +112,17 @@ All decisions below are owned by CEO-001, are reversible unless stated otherwise
 - **DECISION:** The seed is random per run (never date-derived). The key holds ranking + 0–10 bars + checksum only. Only the life path (+2) affects the result and picks the first question. Sign, eastern year and weekday are shown as lore on the local decode screen, and the copy says plainly that they don't affect the result (Genesis §21: deception = 0).
 - **RESULT:** Residual leakage = life path only (≈2,475 candidate dates in 1950–2010, same as the life path alone).
 - **TRADE-OFF:** The birth date matters less mechanically than the Founder may have hoped. It still visibly picks the start class and the first question. Revisit if users ask for more birth influence. Any added influence must pass the same leakage test.
+
+## DECISION #015 — v0.4 "Mirror": a real model under the game (Founder-approved)
+- **TRIGGER:** Founder smoke test #2: "looks good, but empty — unclear what we study; questions repeat". Research by RESEARCH-002 (science), RESEARCH-003 (birth date and RU market), PROTOTYPE-001 (live AI). Concept: reports/CONCEPT_v0.4.md. Founder: "build v0.4, AI later".
+- **DECISION:**
+  1. **Model.** The 6 invented stats are replaced by 4 value poles on 2 axes after Schwartz (FREEDOM ↔ ANCHOR, WEIGHT ↔ CARE) and BRIDGE (future self-continuity, one 1–7 item after Hershfield).
+  2. **Measurement.** 8 situations per run from a pool of 30. Each has "I'd choose" and "definitely not" (best–worst), and every option has a price. A seen-history prevents repeats across runs in the same browser.
+  3. **Output.** Value order, **main tension** (axis conflict or clear priority with its cost), blind spot, bridge interpretation, a 7-day quest aimed at the tension, an archetype (8) with plus/shadow, and a retake date (stability check).
+  4. **Birth date.**
+     - Private: weeks lived, a 90-year life grid, the next "fresh start" milestone (Dai/Milkman/Riis), Erikson's stage as a question, and the world at birth (population, a tech milestone).
+     - Shared: only the life-path archetype, labelled as lore.
+  5. **Honesty.** "A mirror, not a test" on the model screen and in the result. Theory citations without copied items. Ipsative caveat (order only, not norms).
+- **ALTERNATIVES:** Big Five short forms (weak reliability, no tension to resolve); SDT needs (licensing); runtime LLM first (does not give a model; deferred to v0.5 / HR-003).
+- **COST:** $0. **REVERSIBILITY:** high. **CONFIDENCE:** medium. The model is sound, but 8 items is thin, so we measure perceived accuracy with the new `fb_true_*` question.
+- **SUCCESS SIGNAL:** `fb_true_yes + fb_true_partly` ≥ 70% of feedback, and the share rate higher than v0.3.

diff --git a/company/AGENTS.md b/company/AGENTS.md
@@ -94,6 +94,14 @@ CEO-001 ── runs: BUILDER-001 (mode), PRODUCT (merged)
 | AI-ARCH-001 | Cost and architecture of runtime LLM | Haiku 4.5 ≈ $0.011/reality; staged plan; HR-003 draft; guardrails | RETIRED |
 | RU-EDITOR-002 | Russian copy review of v0.3 | ~25 edits; found the future-prompt bug in both languages; 4.5/5 | RETIRED |
 
+### Temporary agents of 2026-10-03 (v0.4 concept)
+| ID | Mission | Output | Status |
+|---|---|---|---|
+| RESEARCH-002 | Evidence-based backbone measurable in ~8 choices | Schwartz higher-order values + Hershfield FSC; best–worst format; caveats | RETIRED |
+| RESEARCH-003 | What a birth date can honestly give; RU numerology market | Life in weeks, fresh-start milestones, Erikson stage; plus/shadow language; avoid karma and fear funnels | RETIRED |
+| PROTOTYPE-001 | Would a live adaptive AI fix "empty/repetitive"? | 3 RU sample sessions; ~$0.025/session; needs an ingredient pool, gender checks, fallback | RETIRED |
+| RU-EDITOR-003 | RU copy review of v0.4 | (pending) | TEMPORARY |
+
 ### PROPOSED (not instantiated)
 | Role | Why not now | Instantiate when |
 |---|---|---|
